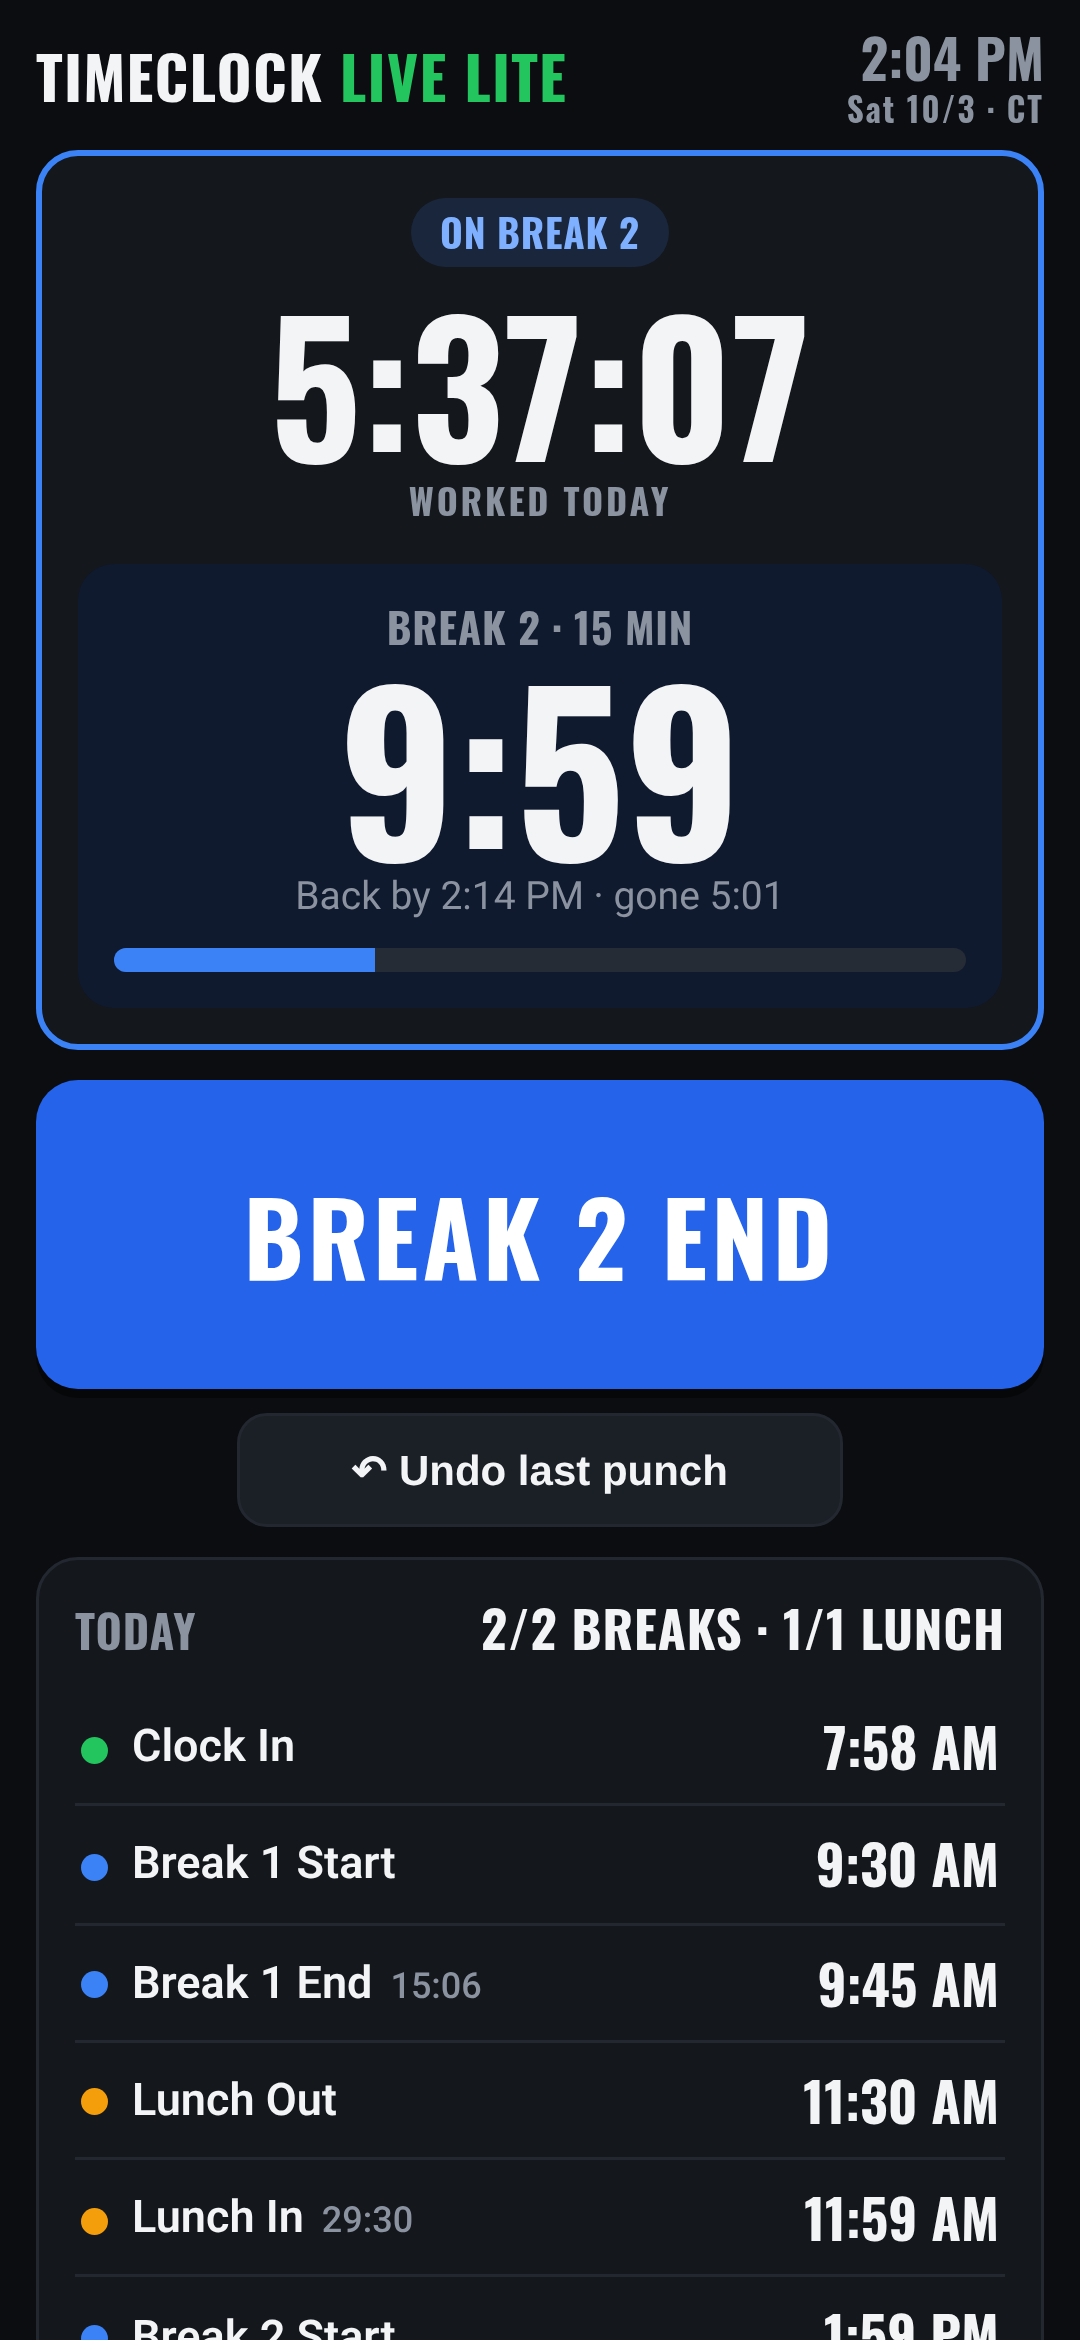
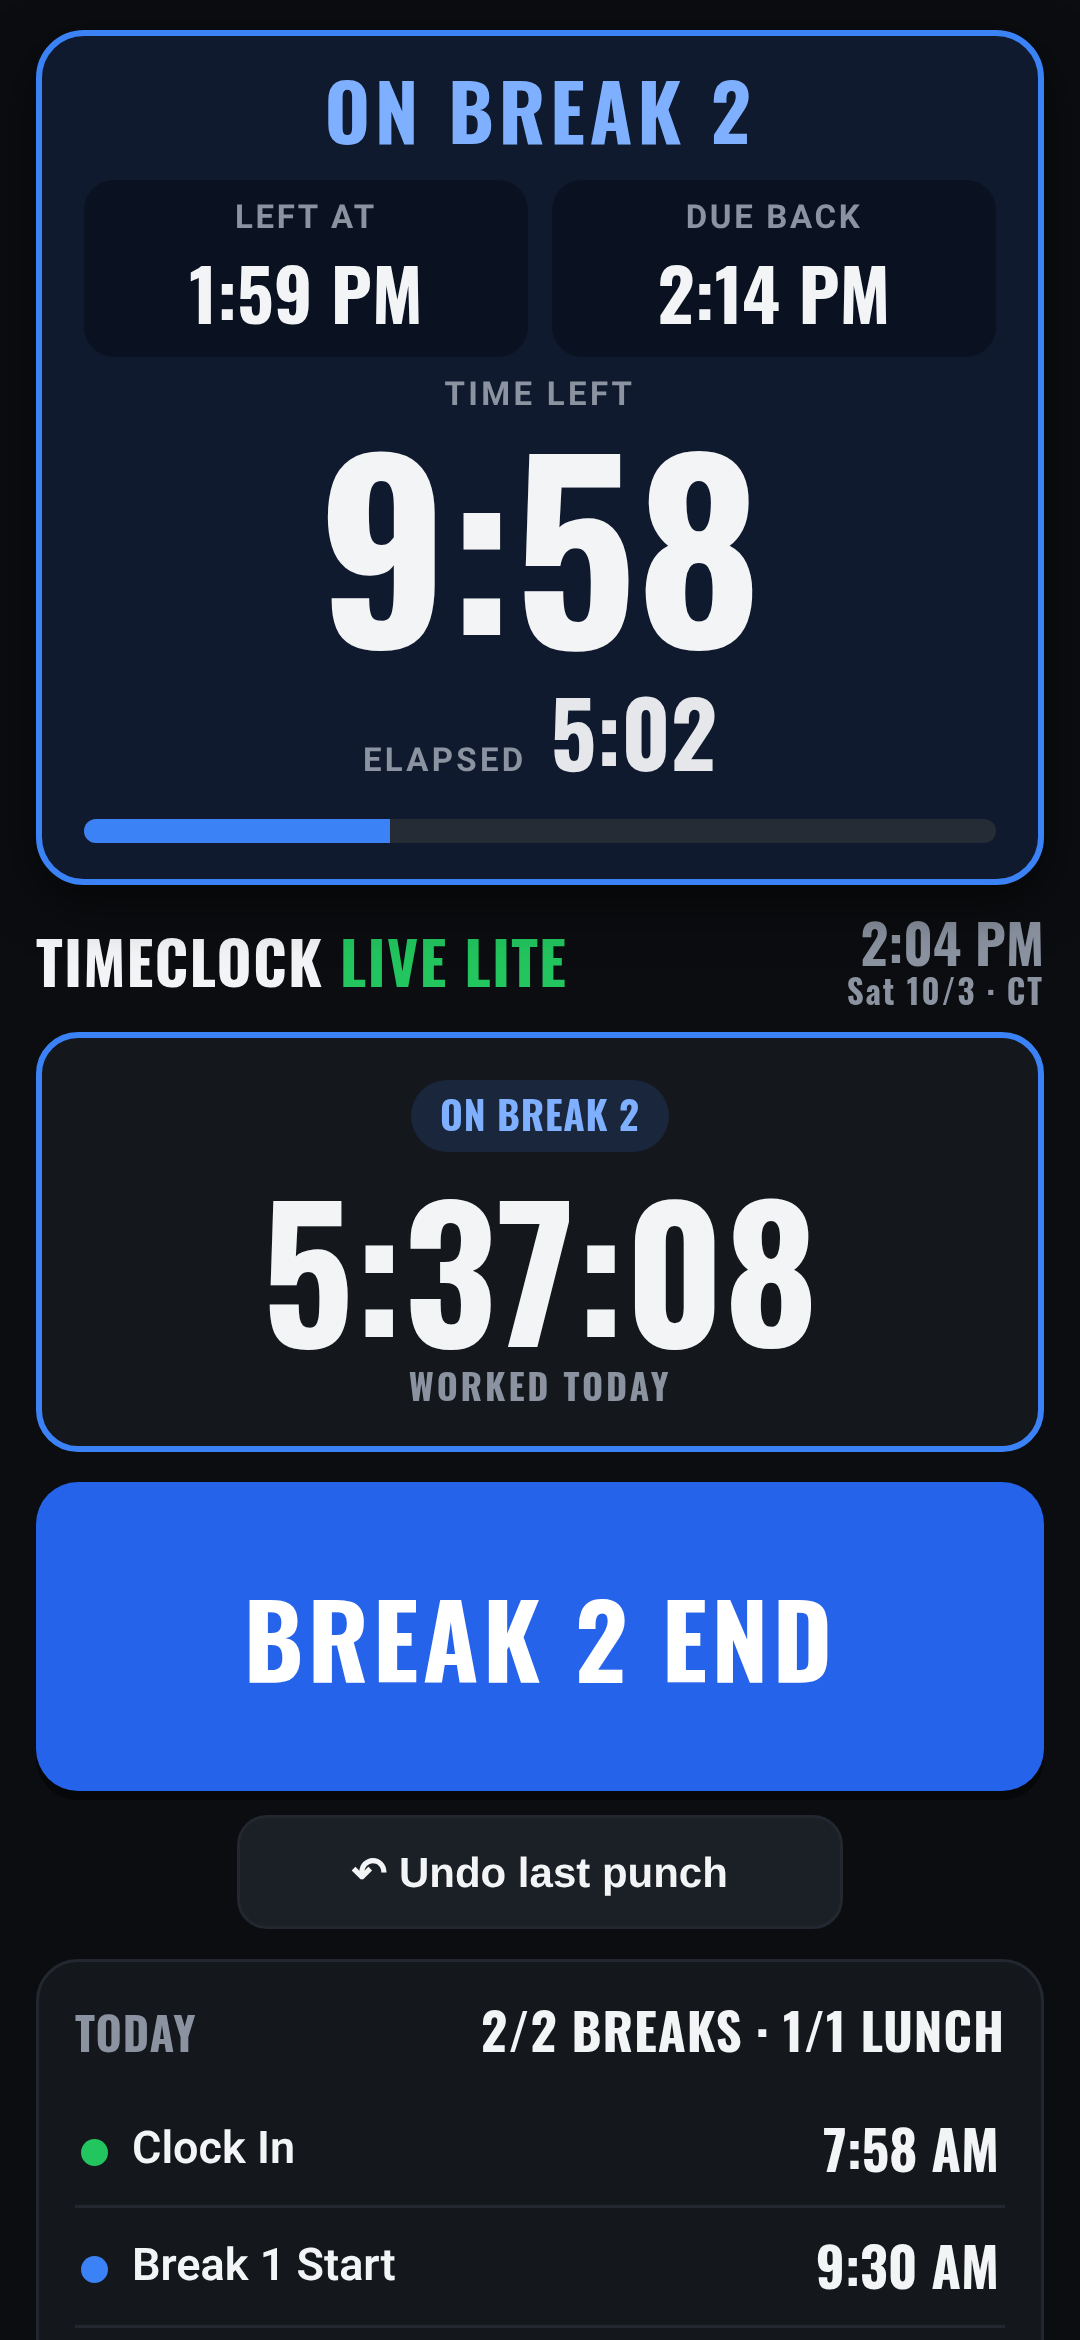
v1.1.0: pinned on-break/lunch panel at top (left at, due back, countdown, LATE, stopwatch); SW cache tcl-v1.1.0

diff --git a/index.html b/index.html
@@ -33,21 +33,28 @@ header h1 span{color:var(--green)}
 .st-in #status{background:rgba(34,197,94,.15);color:var(--green)} .st-break #status{background:rgba(59,130,246,.15);color:#7fb0ff} .st-lunch #status{background:rgba(245,158,11,.15);color:var(--amber)} .st-out #status{background:rgba(239,68,68,.15);color:#ff8a8a}
 #worked{font-family:var(--disp);font-weight:700;font-size:60px;line-height:1;margin:8px 0 2px;font-variant-numeric:tabular-nums}
 #workedLbl{font-size:12px;color:var(--dim);letter-spacing:.08em}
-#cd{display:none;margin-top:12px;padding:12px;border-radius:12px;background:#0f1a2e}
+#cd{display:none;position:sticky;top:env(safe-area-inset-top);z-index:5;margin:0 0 10px;padding:12px 14px 12px;border-radius:16px;background:#0f1a2e;border:2px solid var(--blue);box-shadow:0 6px 18px rgba(0,0,0,.55);text-align:center}
 #cd.on{display:block}
-#cd.lunch{background:#231a08}
-#cdTitle{font-size:14px;color:var(--dim)}
-#cdLeft{font-family:var(--disp);font-weight:700;font-size:72px;line-height:1;font-variant-numeric:tabular-nums}
-#cdSub{font-size:13px;color:var(--dim)}
+#cd.lunch{background:#231a08;border-color:var(--amber)}
+#cdTitle{font-family:var(--disp);font-weight:700;font-size:26px;letter-spacing:.06em;color:#7fb0ff;line-height:1}
+#cd.lunch #cdTitle{color:var(--amber)}
+.cdTimes{display:grid;grid-template-columns:1fr 1fr;gap:8px;margin:10px 0 4px}
+.cdTimes div{background:rgba(0,0,0,.28);border-radius:10px;padding:6px 4px}
+.cdTimes small{display:block;font-size:11px;color:var(--dim);letter-spacing:.08em;font-weight:700}
+.cdTimes b{font-family:var(--disp);font-weight:700;font-size:24px;font-variant-numeric:tabular-nums}
+#cdLeftLbl{font-size:11px;color:var(--dim);letter-spacing:.1em;font-weight:700;margin-top:6px}
+#cdLeft{font-family:var(--disp);font-weight:700;font-size:80px;line-height:1;font-variant-numeric:tabular-nums}
+#cdElapsedRow{display:flex;justify-content:center;align-items:baseline;gap:8px;margin-top:4px}
+#cdElapsedRow small{font-size:11px;color:var(--dim);letter-spacing:.1em;font-weight:700}
+#cdElapsed{font-family:var(--disp);font-weight:700;font-size:30px;font-variant-numeric:tabular-nums;color:#e5e7eb}
 #cdBar{height:8px;border-radius:9px;background:#262c36;margin-top:8px;overflow:hidden}
-#cdBar i{display:block;height:100%;width:0;background:var(--blue);transition:width 1s linear}
+#cdBar i{display:block;height:100%;width:0;background:var(--blue)}
 #cd.lunch #cdBar i{background:var(--amber)}
 #cd.warn{animation:flash .8s steps(2,start) infinite}
 #cd.warn #cdLeft{color:var(--amber)}
-#cd.late{background:#3a0d0d!important;animation:flash .5s steps(2,start) infinite}
-#cd.late #cdLeft{color:#ff6b6b}
-@keyframes flash{50%{background:#5b3a00;box-shadow:0 0 0 3px var(--amber) inset}}
-#cd.late{--x:0}
+#cd.late{background:#3a0d0d!important;border-color:var(--red)!important;animation:flash .5s steps(2,start) infinite}
+#cd.late #cdLeft,#cd.late #cdLeftLbl{color:#ff6b6b}
+#cd.late #cdBar i{background:var(--red)}
 body.flashAll::after{content:"";position:fixed;inset:0;background:rgba(255,255,255,.35);pointer-events:none;animation:fade 1.2s ease-out forwards}
 @keyframes fade{to{opacity:0}}
 #acts{display:grid;gap:10px;margin-bottom:10px}
@@ -91,6 +98,14 @@ footer .ver{color:var(--dim);font-size:12px;margin-top:4px;letter-spacing:.04em}
 </style>
 </head>
 <body>
+<section id="cd" aria-live="polite">
+  <div id="cdTitle">ON BREAK 1</div>
+  <div class="cdTimes"><div><small>LEFT AT</small><b id="cdOut">--</b></div><div><small>DUE BACK</small><b id="cdDue">--</b></div></div>
+  <div id="cdLeftLbl">TIME LEFT</div>
+  <div id="cdLeft">15:00</div>
+  <div id="cdElapsedRow"><small>ELAPSED</small><span id="cdElapsed">0:00</span></div>
+  <div id="cdBar"><i></i></div>
+</section>
 <header>
   <h1 class="disp">TimeClock <span>Live Lite</span></h1>
   <div id="clock">--:--<small id="dateLbl"></small></div>
@@ -100,12 +115,6 @@ footer .ver{color:var(--dim);font-size:12px;margin-top:4px;letter-spacing:.04em}
   <div id="status" class="disp">Not clocked in</div>
   <div id="worked">0:00:00</div>
   <div id="workedLbl" class="disp">Worked today</div>
-  <div id="cd">
-    <div id="cdTitle" class="disp">Break 1</div>
-    <div id="cdLeft">15:00</div>
-    <div id="cdSub">Back by --</div>
-    <div id="cdBar"><i></i></div>
-  </div>
 </section>
 
 <section id="acts"></section>
@@ -139,7 +148,7 @@ footer .ver{color:var(--dim);font-size:12px;margin-top:4px;letter-spacing:.04em}
 
 <footer>
   <div class="by">Design by Van</div>
-  <div class="ver">v1.0.0 · Oct 3, 2026</div>
+  <div class="ver">v1.1.0 · Oct 3, 2026</div>
 </footer>
 
 <div id="jsonBox"><textarea id="jsonTxt" readonly></textarea>
@@ -148,7 +157,7 @@ footer .ver{color:var(--dim);font-size:12px;margin-top:4px;letter-spacing:.04em}
 
 <script>
 "use strict";
-const APP="TimeClock Live Lite", VERSION="1.0.0", TZ="America/Chicago", KEY="punches";
+const APP="TimeClock Live Lite", VERSION="1.1.0", TZ="America/Chicago", KEY="punches";
 const BREAK_SEC=15*60, BREAK_WARN=3*60, LUNCH_SEC=30*60, LUNCH_WARN=5*60;
 const PP_ANCHOR="2026-09-26", PP_DAYS=14;
 const $=id=>document.getElementById(id);
@@ -254,9 +263,11 @@ function render(){const n=nowCT(),iso=n.iso,st=state(iso),r=st.r;
   const cd=$("cd");
   if(st.k==="break"||st.k==="lunch"){const isL=st.k==="lunch",s0=isL?r.Lo:st.ob.s,len=isL?LUNCH_SEC:BREAK_SEC,warnAt=isL?LUNCH_WARN:BREAK_WARN;
     const left=len-(n.sec-s0);cd.className="on"+(isL?" lunch":"")+(left<=0?" late":left<=warnAt?" warn":"");
-    $("cdTitle").textContent=isL?"Lunch · 30 min":`Break ${st.n} · 15 min`;
+    $("cdTitle").textContent=isL?"ON LUNCH":`ON BREAK ${st.n}`;
+    $("cdOut").textContent=tod12(s0);$("cdDue").textContent=tod12(s0+len);
+    $("cdLeftLbl").textContent=left<=0?"PAST DUE":"TIME LEFT";
     $("cdLeft").textContent=left<=0?"LATE "+ms(left):ms(left);
-    $("cdSub").textContent="Back by "+tod12(s0+len)+" · gone "+ms(n.sec-s0);
+    {const e=n.sec-s0;$("cdElapsed").textContent=e<3600?ms(e):hms(e);}
     $("cdBar").firstChild.style.width=Math.min(100,(n.sec-s0)/len*100)+"%";
     const key=iso+":"+st.k+":"+s0;
     if(left<=warnAt&&left>0&&!fired(key+":warn"))alarm("warn");

diff --git a/src/index.src.html b/src/index.src.html
@@ -33,21 +33,28 @@ header h1 span{color:var(--green)}
 .st-in #status{background:rgba(34,197,94,.15);color:var(--green)} .st-break #status{background:rgba(59,130,246,.15);color:#7fb0ff} .st-lunch #status{background:rgba(245,158,11,.15);color:var(--amber)} .st-out #status{background:rgba(239,68,68,.15);color:#ff8a8a}
 #worked{font-family:var(--disp);font-weight:700;font-size:60px;line-height:1;margin:8px 0 2px;font-variant-numeric:tabular-nums}
 #workedLbl{font-size:12px;color:var(--dim);letter-spacing:.08em}
-#cd{display:none;margin-top:12px;padding:12px;border-radius:12px;background:#0f1a2e}
+#cd{display:none;position:sticky;top:env(safe-area-inset-top);z-index:5;margin:0 0 10px;padding:12px 14px 12px;border-radius:16px;background:#0f1a2e;border:2px solid var(--blue);box-shadow:0 6px 18px rgba(0,0,0,.55);text-align:center}
 #cd.on{display:block}
-#cd.lunch{background:#231a08}
-#cdTitle{font-size:14px;color:var(--dim)}
-#cdLeft{font-family:var(--disp);font-weight:700;font-size:72px;line-height:1;font-variant-numeric:tabular-nums}
-#cdSub{font-size:13px;color:var(--dim)}
+#cd.lunch{background:#231a08;border-color:var(--amber)}
+#cdTitle{font-family:var(--disp);font-weight:700;font-size:26px;letter-spacing:.06em;color:#7fb0ff;line-height:1}
+#cd.lunch #cdTitle{color:var(--amber)}
+.cdTimes{display:grid;grid-template-columns:1fr 1fr;gap:8px;margin:10px 0 4px}
+.cdTimes div{background:rgba(0,0,0,.28);border-radius:10px;padding:6px 4px}
+.cdTimes small{display:block;font-size:11px;color:var(--dim);letter-spacing:.08em;font-weight:700}
+.cdTimes b{font-family:var(--disp);font-weight:700;font-size:24px;font-variant-numeric:tabular-nums}
+#cdLeftLbl{font-size:11px;color:var(--dim);letter-spacing:.1em;font-weight:700;margin-top:6px}
+#cdLeft{font-family:var(--disp);font-weight:700;font-size:80px;line-height:1;font-variant-numeric:tabular-nums}
+#cdElapsedRow{display:flex;justify-content:center;align-items:baseline;gap:8px;margin-top:4px}
+#cdElapsedRow small{font-size:11px;color:var(--dim);letter-spacing:.1em;font-weight:700}
+#cdElapsed{font-family:var(--disp);font-weight:700;font-size:30px;font-variant-numeric:tabular-nums;color:#e5e7eb}
 #cdBar{height:8px;border-radius:9px;background:#262c36;margin-top:8px;overflow:hidden}
-#cdBar i{display:block;height:100%;width:0;background:var(--blue);transition:width 1s linear}
+#cdBar i{display:block;height:100%;width:0;background:var(--blue)}
 #cd.lunch #cdBar i{background:var(--amber)}
 #cd.warn{animation:flash .8s steps(2,start) infinite}
 #cd.warn #cdLeft{color:var(--amber)}
-#cd.late{background:#3a0d0d!important;animation:flash .5s steps(2,start) infinite}
-#cd.late #cdLeft{color:#ff6b6b}
-@keyframes flash{50%{background:#5b3a00;box-shadow:0 0 0 3px var(--amber) inset}}
-#cd.late{--x:0}
+#cd.late{background:#3a0d0d!important;border-color:var(--red)!important;animation:flash .5s steps(2,start) infinite}
+#cd.late #cdLeft,#cd.late #cdLeftLbl{color:#ff6b6b}
+#cd.late #cdBar i{background:var(--red)}
 body.flashAll::after{content:"";position:fixed;inset:0;background:rgba(255,255,255,.35);pointer-events:none;animation:fade 1.2s ease-out forwards}
 @keyframes fade{to{opacity:0}}
 #acts{display:grid;gap:10px;margin-bottom:10px}
@@ -91,6 +98,14 @@ footer .ver{color:var(--dim);font-size:12px;margin-top:4px;letter-spacing:.04em}
 </style>
 </head>
 <body>
+<section id="cd" aria-live="polite">
+  <div id="cdTitle">ON BREAK 1</div>
+  <div class="cdTimes"><div><small>LEFT AT</small><b id="cdOut">--</b></div><div><small>DUE BACK</small><b id="cdDue">--</b></div></div>
+  <div id="cdLeftLbl">TIME LEFT</div>
+  <div id="cdLeft">15:00</div>
+  <div id="cdElapsedRow"><small>ELAPSED</small><span id="cdElapsed">0:00</span></div>
+  <div id="cdBar"><i></i></div>
+</section>
 <header>
   <h1 class="disp">TimeClock <span>Live Lite</span></h1>
   <div id="clock">--:--<small id="dateLbl"></small></div>
@@ -100,12 +115,6 @@ footer .ver{color:var(--dim);font-size:12px;margin-top:4px;letter-spacing:.04em}
   <div id="status" class="disp">Not clocked in</div>
   <div id="worked">0:00:00</div>
   <div id="workedLbl" class="disp">Worked today</div>
-  <div id="cd">
-    <div id="cdTitle" class="disp">Break 1</div>
-    <div id="cdLeft">15:00</div>
-    <div id="cdSub">Back by --</div>
-    <div id="cdBar"><i></i></div>
-  </div>
 </section>
 
 <section id="acts"></section>
@@ -139,7 +148,7 @@ footer .ver{color:var(--dim);font-size:12px;margin-top:4px;letter-spacing:.04em}
 
 <footer>
   <div class="by">Design by Van</div>
-  <div class="ver">v1.0.0 · Oct 3, 2026</div>
+  <div class="ver">v1.1.0 · Oct 3, 2026</div>
 </footer>
 
 <div id="jsonBox"><textarea id="jsonTxt" readonly></textarea>
@@ -148,7 +157,7 @@ footer .ver{color:var(--dim);font-size:12px;margin-top:4px;letter-spacing:.04em}
 
 <script>
 "use strict";
-const APP="TimeClock Live Lite", VERSION="1.0.0", TZ="America/Chicago", KEY="punches";
+const APP="TimeClock Live Lite", VERSION="1.1.0", TZ="America/Chicago", KEY="punches";
 const BREAK_SEC=15*60, BREAK_WARN=3*60, LUNCH_SEC=30*60, LUNCH_WARN=5*60;
 const PP_ANCHOR="2026-09-26", PP_DAYS=14;
 const $=id=>document.getElementById(id);
@@ -254,9 +263,11 @@ function render(){const n=nowCT(),iso=n.iso,st=state(iso),r=st.r;
   const cd=$("cd");
   if(st.k==="break"||st.k==="lunch"){const isL=st.k==="lunch",s0=isL?r.Lo:st.ob.s,len=isL?LUNCH_SEC:BREAK_SEC,warnAt=isL?LUNCH_WARN:BREAK_WARN;
     const left=len-(n.sec-s0);cd.className="on"+(isL?" lunch":"")+(left<=0?" late":left<=warnAt?" warn":"");
-    $("cdTitle").textContent=isL?"Lunch · 30 min":`Break ${st.n} · 15 min`;
+    $("cdTitle").textContent=isL?"ON LUNCH":`ON BREAK ${st.n}`;
+    $("cdOut").textContent=tod12(s0);$("cdDue").textContent=tod12(s0+len);
+    $("cdLeftLbl").textContent=left<=0?"PAST DUE":"TIME LEFT";
     $("cdLeft").textContent=left<=0?"LATE "+ms(left):ms(left);
-    $("cdSub").textContent="Back by "+tod12(s0+len)+" · gone "+ms(n.sec-s0);
+    {const e=n.sec-s0;$("cdElapsed").textContent=e<3600?ms(e):hms(e);}
     $("cdBar").firstChild.style.width=Math.min(100,(n.sec-s0)/len*100)+"%";
     const key=iso+":"+st.k+":"+s0;
     if(left<=warnAt&&left>0&&!fired(key+":warn"))alarm("warn");

diff --git a/sw.js b/sw.js
@@ -1,5 +1,5 @@
 /* TimeClock Live Lite service worker - offline app shell */
-const CACHE = "tcl-v1.0.0";
+const CACHE = "tcl-v1.1.0";
 const SHELL = ["./", "index.html", "manifest.webmanifest", "icons/icon-180.png", "icons/icon-192.png", "icons/icon-512.png"];
 self.addEventListener("install", e => { e.waitUntil(caches.open(CACHE).then(c => c.addAll(SHELL)).then(() => self.skipWaiting())); });
 self.addEventListener("activate", e => {

diff --git a/test/test.py b/test/test.py
@@ -24,7 +24,7 @@ try:
     pg.goto('http://127.0.0.1:8799/index.html'); pg.wait_for_timeout(300)
     btns=lambda: pg.eval_on_selector_all('#acts .btn','e=>e.map(x=>x.textContent)')
     chk('start shows only Clock In',btns()==['Clock In'],btns())
-    chk('footer',pg.inner_text('footer')=='DESIGN BY VAN\nv1.0.0 · Oct 3, 2026',pg.inner_text('footer'))
+    chk('footer',pg.inner_text('footer')=='DESIGN BY VAN\nv1.1.0 · Oct 3, 2026',pg.inner_text('footer'))
     chk('footer font Oswald',pg.evaluate("document.fonts.check('700 30px OswaldTC')"))
     chk('pay period range',pg.inner_text('#ppRange')=='9/26/2026 – 10/9/2026',pg.inner_text('#ppRange'))
     # 9/28 8:00-16:30 minus 30 lunch = 8:00; 9/29 7:58->... (8:02-16:30 -30)=7:58 ; 9/30 8:00; 10/1 7:30; 10/2 8:00 => 39:28
@@ -34,20 +34,34 @@ try:
     pg.clock.run_for(92*60*1000)  # 9:30
     pg.click('text=Break 1 Start'); pg.wait_for_timeout(50)
     chk('on break only End',btns()==['Break 1 End'],btns())
-    chk('countdown 15:00',pg.inner_text('#cdLeft') in ('15:00','14:59'),pg.inner_text('#cdLeft'))
-    pg.clock.run_for(12*60*1000+5000)
+    panel=lambda: {k:pg.inner_text('#'+k) for k in ('cdTitle','cdOut','cdDue','cdLeft','cdElapsed','cdLeftLbl')}
+    bb=pg.locator('#cd').bounding_box(); hb=pg.locator('header').bounding_box()
+    chk('panel visible at very top (above header)',pg.is_visible('#cd') and bb['y']<15 and bb['y']<hb['y'],(bb,hb))
+    pv=panel(); chk('panel break 1 label/left/due',pv['cdTitle']=='ON BREAK 1' and pv['cdLeft'] in ('15:00','14:59') and pv['cdOut']=='9:30 AM' and pv['cdDue']=='9:45 AM' and pv['cdLeftLbl']=='TIME LEFT',pv)
+    chk('stopwatch starts ~0:00',pv['cdElapsed'] in ('0:00','0:01'),pv['cdElapsed'])
+    pg.clock.run_for(65*1000); pv=panel()
+    chk('stopwatch counts up 1:05',pv['cdElapsed'] in ('1:05','1:06'),pv)
+    chk('countdown counts down 13:55',pv['cdLeft'] in ('13:55','13:54'),pv)
+    pg.mouse.wheel(0,3000); pg.wait_for_timeout(200); bb=pg.locator('#cd').bounding_box()
+    chk('panel stays pinned at top when scrolled',pg.evaluate('scrollY')>100 and -1<=bb['y']<15,(pg.evaluate('scrollY'),bb))
+    pg.mouse.wheel(0,-3000); pg.wait_for_timeout(200)
+    pg.clock.run_for(12*60*1000+5000-65*1000)
     chk('warn at <=3 min',pg.get_attribute('#cd','class')=='on warn',(pg.get_attribute('#cd','class'),pg.inner_text('#cdLeft')))
     pg.screenshot(path=ROOT+'/test/break-warn.png')
     pg.clock.run_for(3*60*1000)
     chk('late at zero',pg.get_attribute('#cd','class')=='on late',(pg.get_attribute('#cd','class'),pg.inner_text('#cdLeft')))
+    pv=panel(); chk('late shows red LATE +m:ss',pv['cdLeft'] in ('LATE +0:05','LATE +0:06') and pv['cdLeftLbl']=='PAST DUE' and pv['cdElapsed'] in ('15:05','15:06'),pv)
+    chk('late color red',pg.evaluate("getComputedStyle(document.getElementById('cdLeft')).color")=='rgb(255, 107, 107)')
     pg.click('text=Break 1 End')
     chk('after b1: break2/lunch/out',btns()==['Break 2 Start','Lunch Out','Clock Out'],btns())
+    chk('panel hidden while working',not pg.is_visible('#cd'))
     # undo test
     pg.click('#bUndo'); chk('undo armed',"Tap again" in pg.inner_text('#bUndo'))
     pg.click('#bUndo'); chk('undo restored break',btns()==['Break 1 End'],btns())
     pg.click('text=Break 1 End')
     pg.clock.run_for(2*3600*1000-15*60*1000)  # ~11:30
     pg.click('text=Lunch Out'); chk('lunch only Lunch In',btns()==['Lunch In'],btns())
+    pv=panel(); chk('panel ON LUNCH with due +30',pv['cdTitle']=='ON LUNCH' and pv['cdOut']=='11:30 AM' and pv['cdDue']=='12:00 PM',pv)
     pg.clock.run_for(24*60*1000+30000)
     chk('lunch not warn at 5:30 left','warn' not in pg.get_attribute('#cd','class'),pg.inner_text('#cdLeft'))
     pg.clock.run_for(60*1000)
@@ -58,6 +72,7 @@ try:
     chk('after lunch: break2/out',btns()==['Break 2 Start','Clock Out'],btns())
     pg.clock.run_for(2*3600*1000)
     pg.click('text=Break 2 Start'); pg.clock.run_for(5*60*1000)
+    pv=panel(); chk('panel ON BREAK 2',pv['cdTitle']=='ON BREAK 2' and pv['cdElapsed'] in ('5:00','5:01'),pv)
     pg.wait_for_timeout(1200); pg.screenshot(path=ROOT+'/screenshot.png'); pg.screenshot(path=ROOT+'/test/screenshot-full.png',full_page=True)
     pg.clock.run_for(9*60*1000); pg.click('text=Break 2 End')
     chk('after all: only Clock Out',btns()==['Clock Out'],btns())
